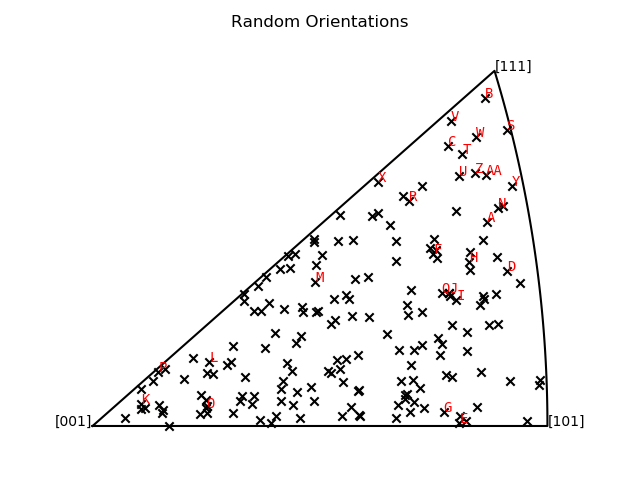
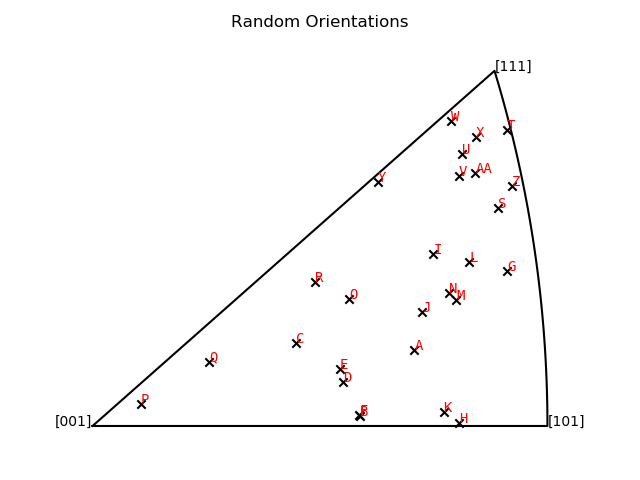
corrected script that has an easily changible hardness/softness threshold.

diff --git a/QuaternionPaper/half_random_SchmidFactor_selected.py b/QuaternionPaper/half_random_SchmidFactor_selected.py
@@ -10,8 +10,8 @@ import matplotlib.pyplot as plt
 
 
 
-soft_threshold = 0.475
-hard_threshold = 0.39
+upper_soft = 0.48
+lower_hard = 0.39
 folder = "schmidSelected_2018/"
 rn.seed(2018)
 def randomQGenerator():
@@ -61,27 +61,34 @@ while grainNo<27:
 	v48 = duplicate48Points(Q_v(q)[0], Q_v(q)[1], Q_v(q)[2])
 	r = chooseIPpoint(v48)
 	#ID[grain] = getIPpointID(v48)	#optional
-	[Theta, Phi] = cartesian_spherical( r[0], r[1], r[2])
-	R, Angle = stereographicProjector(Theta,Phi)
-	X, Y = polar2D_xy(Angle, R)
+	#[Theta, Phi] = cartesian_spherical( r[0], r[1], r[2])
+	#R, Angle = stereographicProjector(Theta,Phi)
+	#X, Y = polar2D_xy(Angle, R)
 
-	ax.scatter(X, Y , color = 'black', marker = 'x')
+	#ax.scatter(X, Y , color = 'black', marker = 'x')
 	'''<\Standard code to turn quaternion into IPF (inverse pole figure)>█████████████████████████████████████████████████'''
 	#ax.plot(X2,Y2, markeredgecolor = 'black', markerfacecolor = 'none', marker='x')
 	#Make annotation directly next to the point being plotted:
 	Pass = False
-	if (grainNo<6) and (maxSchmidFactor(r)>soft_threshold):	#make sure the first six grains are soft grains.
+	if (grainNo<6) and (maxSchmidFactor(r)<upper_soft):	#make sure the first six grains are soft grains.
 		print("maxSchmidFactor=",maxSchmidFactor(r), " too low (hard), ignored")
 		Pass = True
-	elif(18<grainNo<=26) and (maxSchmidFactor(r)>hard_threshold):
+	elif(18<grainNo<=26) and (maxSchmidFactor(r)>lower_hard):
 		print("maxSchmidFactor=",maxSchmidFactor(r), " too high (soft), ignored")
 		Pass = True
-	elif(6<=grainNo<18) and not(hard_threshold<maxSchmidFactor(r)<=soft_threshold):
+	elif(6<=grainNo<18) and not(lower_hard<maxSchmidFactor(r)<=upper_soft):
 		print("maxSchmidFactor=",maxSchmidFactor(r), "ignored")
 		Pass = True
 	if Pass==False:
 		if (grainNo<26): grainName = chr(65+grainNo)
 		else: grainName = "A"+chr(65+grainNo-26)
+		#moved the plotting bit down here
+		[Theta, Phi] = cartesian_spherical( r[0], r[1], r[2])
+		R, Angle = stereographicProjector(Theta,Phi)
+		X, Y = polar2D_xy(Angle, R)
+
+		ax.scatter(X, Y , color = 'black', marker = 'x')
+
 		ax.annotate(grainName,xy=(X, Y), xycoords='data', color='r', fontname='DejaVu Sans Mono')
 		f.write(grainName+'\n')
 		f.write(writeMatrix(QuatToR(q)))	#write the rotation matrix to file.
